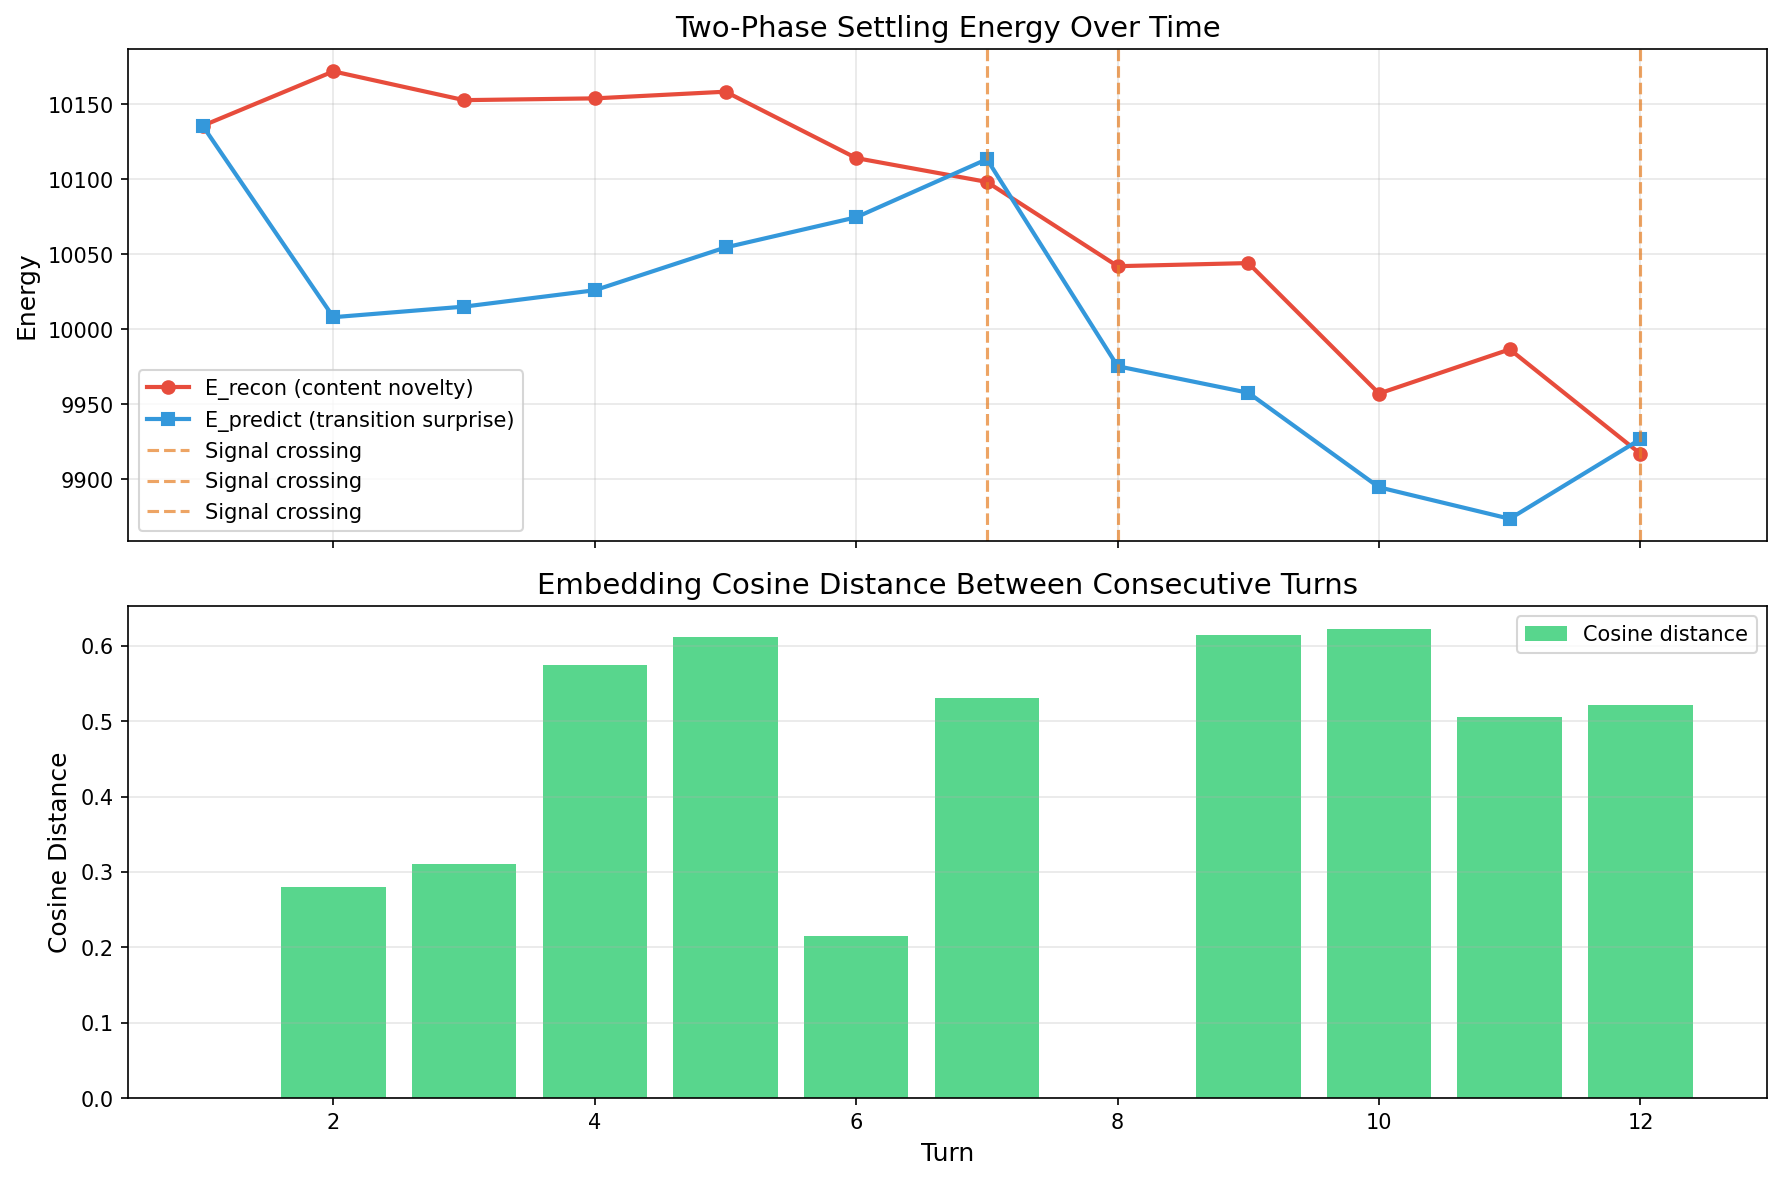
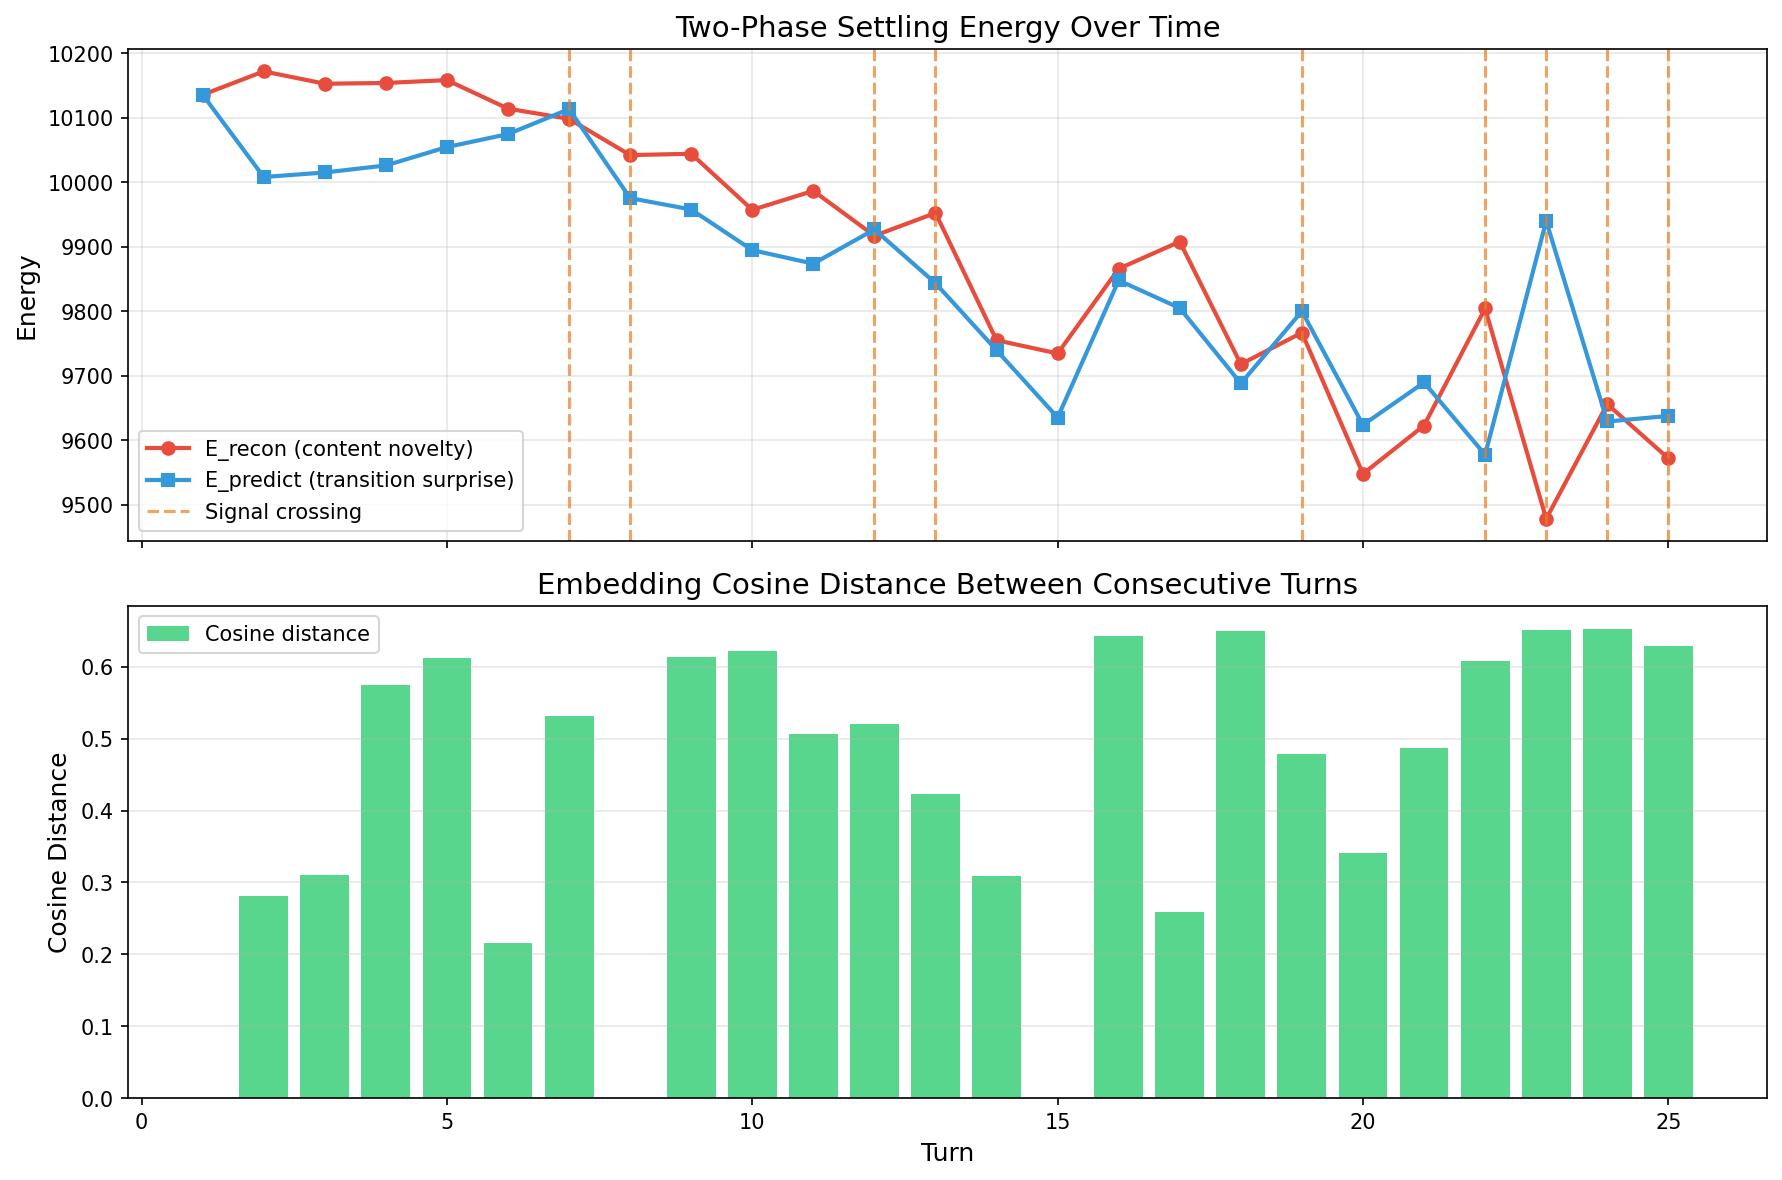
Extend session 2 to 25 turns with full adversarial transcript and updated plot
8 signal crossings across 25 turns (32%), whitespace probe produced largest
E_predict-E_recon gap (462). Philosophy sustains crossing on continuations.
Fixed plot legend deduplication. Updated transcript with all 25 turns, extended
observations, and cosine-vs-crossing analysis.

diff --git a/scripts/plot_session.py b/scripts/plot_session.py
@@ -42,12 +42,15 @@ def plot(stats: dict, output: str | None = None):
         ax1.plot(turns[:len(predict)], predict, "s-", color="#3498db", label="E_predict (transition surprise)", linewidth=2)
 
     # Mark crossover points
+    crossing_label_used = False
     for i in range(len(recon)):
         if i < len(predict) and i > 0:
             prev_diff = recon[i - 1] - predict[i - 1]
             curr_diff = recon[i] - predict[i]
             if prev_diff * curr_diff < 0:  # sign change = crossover
-                ax1.axvline(x=turns[i], color="#e67e22", linestyle="--", alpha=0.7, label="Signal crossing")
+                label = "Signal crossing" if not crossing_label_used else None
+                crossing_label_used = True
+                ax1.axvline(x=turns[i], color="#e67e22", linestyle="--", alpha=0.7, label=label)
 
     ax1.set_ylabel("Energy", fontsize=12)
     ax1.set_title("Two-Phase Settling Energy Over Time", fontsize=14)

diff --git a/docs/session_transcript_2026-02-26_session2.md b/docs/session_transcript_2026-02-26_session2.md
@@ -12,100 +12,125 @@
 
 ---
 
-## Energy Trajectory
+## Full Energy Trajectory (25 turns)
 
-| Turn | Topic | E_recon | E_predict | Blended | Temp | Cos Dist | Steps | Signal |
-|------|-------|---------|-----------|---------|------|----------|-------|--------|
-| 1 | Introduction | 10136 | 10136 | 10136 | 0.700 | N/A | 100 | First turn (degraded) |
-| 2 | Architecture detail | 10172 | 10008 | 10090 | 0.350 | 0.280 | 200 | E_recon ROSE |
-| 3 | Hex dump (PNG header) | 10153 | 10015 | 10084 | 0.350 | 0.310 | 200 | Domain shift registered in cos |
-| 4 | Grief / pet loss | 10154 | 10026 | 10090 | **0.697** | **0.575** | 200 | Temp rose to near-base |
-| 5 | Rust lock-free queue | 10158 | 10055 | 10106 | **1.050** | **0.612** | 200 | **Temp above base!** |
-| 6 | Rust continuation | 10114 | 10075 | 10094 | 1.041 | 0.215 | 200 | Low cos = same domain |
-| 7 | Nonsense tokens | 10098 | **10113** | 10106 | 1.050 | 0.531 | 200 | **SIGNALS CROSSED** |
-| 8 | Same nonsense (repeat) | 10042 | 9975 | 10009 | 0.350 | **0.000** | 200 | Identical input |
-| 9 | Math induction proof | 10044 | 9958 | 10001 | 0.350 | 0.614 | 200 | Huge cos, energy stable |
-| 10 | Single emoji (skull) | 9957 | 9895 | 9926 | 0.350 | 0.622 | 200 | Minimal content |
-| 11 | Dense biochemistry | 9987 | 9874 | 9930 | 0.350 | 0.506 | 200 | E_recon rose from emoji |
-| 12 | "No." | 9917 | **9927** | 9922 | 0.350 | 0.521 | 200 | **SIGNALS CROSSED** |
+| Turn | Topic | E_recon | E_predict | Blended | Temp | Cos Dist | Signal |
+|------|-------|---------|-----------|---------|------|----------|--------|
+| 1 | Introduction | 10136 | 10136 | 10136 | 0.700 | N/A | First turn (degraded) |
+| 2 | Architecture detail | 10172 | 10008 | 10090 | 0.350 | 0.280 | E_recon ROSE |
+| 3 | Hex dump (PNG header) | 10153 | 10015 | 10084 | 0.350 | 0.310 | Domain shift in cos |
+| 4 | Grief / pet loss | 10154 | 10026 | 10090 | **0.697** | **0.575** | Temp rose to near-base |
+| 5 | Rust lock-free queue | 10158 | 10055 | 10106 | **1.050** | **0.612** | **Temp above base!** |
+| 6 | Rust continuation | 10114 | 10075 | 10094 | 1.041 | 0.215 | Low cos = same domain |
+| 7 | Nonsense tokens | 10098 | **10113** | 10106 | 1.050 | 0.531 | **CROSSED** |
+| 8 | Same nonsense (repeat) | 10042 | 9975 | 10009 | 0.350 | **0.000** | Identical input |
+| 9 | Math induction proof | 10044 | 9958 | 10001 | 0.350 | 0.614 | Huge cos, energy stable |
+| 10 | Single emoji (skull) | 9957 | 9895 | 9926 | 0.350 | 0.622 | Minimal content |
+| 11 | Dense biochemistry | 9987 | 9874 | 9930 | 0.350 | 0.506 | E_recon rose from emoji |
+| 12 | "No." | 9917 | **9927** | 9922 | 0.350 | 0.521 | **CROSSED** |
+| 13 | Meta: PCHead tuning | 9952 | 9843 | 9898 | 0.350 | 0.424 | Callback to turns 1-2 |
+| 14 | Clinical JSON (sepsis) | 9755 | 9740 | 9747 | 0.350 | 0.308 | Structured data |
+| 15 | (duplicate of T14) | 9735 | 9635 | 9685 | 0.350 | 0.000 | Accidental repeat |
+| 16 | Shakespearean sonnet | 9866 | 9848 | 9857 | 0.350 | **0.643** | E_recon ROSE (+131) |
+| 17 | Poe-style sonnet | 9908 | 9805 | 9856 | 0.350 | 0.259 | Continuation, low cos |
+| 18 | x86-64 assembly | 9718 | 9688 | 9703 | 0.350 | **0.650** | Poetry→asm far |
+| 19 | P-zombies / philosophy | 9767 | **9800** | 9783 | 0.350 | 0.479 | **CROSSED** |
+| 20 | LLM consciousness | 9548 | **9624** | 9586 | 0.350 | 0.341 | **CROSSED** on continuation |
+| 21 | Kimchi jjigae recipe | 9623 | **9690** | 9656 | 0.350 | 0.487 | **CROSSED** |
+| 22 | Legal non-compete | 9804 | 9578 | 9691 | 0.350 | 0.608 | E_recon ROSE (+181) |
+| 23 | Whitespace only | 9478 | **9940** | 9709 | 0.350 | **0.652** | **MASSIVE CROSSING** (gap=462) |
+| 24 | Chinese quantum physics | 9656 | 9629 | 9643 | 0.350 | 0.652 | E_recon rose from whitespace |
+| 25 | Repeat of turn 1 | 9572 | **9638** | 9605 | 0.350 | 0.629 | **CROSSED** — familiar content |
 
-**E_recon range:** 10172 → 9917 (−2.5% over 12 turns)
-**E_predict range:** 10136 → 9927 (−2.1% over 11 active turns)
+**E_recon range:** 10172 → 9478 (−6.8% over 25 turns, low point on whitespace)
+**E_predict range:** 10136 → 9638 (−4.9% over 24 active turns)
+**Signal crossings:** 8 total (turns 7, 12, 19, 20, 21, 23, 25 — plus near-cross on 5)
 
 ---
 
 ## Session 1 vs Session 2 Comparison
 
-| Metric | Session 1 (eta=1e-4, K=20) | Session 2 (eta=1e-5, K=100) |
-|--------|---------------------------|----------------------------|
-| E_recon decline | −17.3% (10623→8784) | **−2.5%** (10172→9917) |
-| E_predict decline | −15.5% (10623→8977) | **−2.1%** (10136→9927) |
-| Signal crossings | 1 (turn 8 only) | **3** (turns 7, 12, and near-cross on 5) |
-| Temperature variation | 0.70 then stuck at 0.35 | 0.35 → 0.70 → **1.05** → 0.35 |
-| Unique temp values | 2 (0.70, 0.35) | **4** (0.70, 0.35, 0.697, 1.05, 1.041) |
-| Monotonic decline? | Yes (7 straight turns) | **No** — E_recon rose on turns 2, 5, 11 |
-| Turns to settle | 8 | 12 |
+| Metric | Session 1 (eta=1e-4, K=20, 8 turns) | Session 2 (eta=1e-5, K=100, 25 turns) |
+|--------|--------------------------------------|----------------------------------------|
+| E_recon decline | −17.3% (10623→8784) | **−6.8%** (10172→9478) over 3x more turns |
+| E_predict decline | −15.5% (10623→8977) | **−4.9%** (10136→9638) |
+| Signal crossings | 1 (turn 8 only) | **8** (turns 7, 12, 19, 20, 21, 23, 25) |
+| Temperature range | 0.35, 0.70 (stuck) | 0.35 → 0.70 → **1.05** |
+| Monotonic decline? | Yes (all 7 turns) | **No** — E_recon rose on 7 turns |
+| E_recon reversals | 0 | **7** (turns 2, 5, 11, 16, 17, 22, 24) |
+| Max E_predict spike | N/A (monotonic) | **9940** (turn 23, whitespace after legal) |
 
 ---
 
 ## Key Observations
 
-### 1. 10x Lower Learning Rate Preserves Novelty Sensitivity
+### 1. 10x Lower Learning Rate Preserves Novelty Sensitivity Over 25 Turns
 
-Session 1's eta_w=0.0001 caused 17.3% energy decline in 8 turns. Session 2's eta_w=0.00001 limited decline to 2.5% over 12 turns. The PCHead still learns, but slowly enough that novel content can register as energy spikes rather than being immediately absorbed.
+Session 1's eta_w=0.0001 caused 17.3% energy decline in just 8 turns. Session 2's eta_w=0.00001 limited decline to 6.8% over 25 turns — and the decline is no longer monotonic. Energy rises whenever novel or complex content arrives (turns 2, 5, 11, 16, 17, 22, 24). This confirms eta_w=1e-5 as the right order of magnitude for this embedding dimensionality.
 
-### 2. Energy Is No Longer Monotonically Declining
+### 2. Signal Crossings Are Now Routine, Not Exceptional
 
-E_recon rose on turns 2 (architecture→architecture, but different details), 5 (grief→Rust), and 11 (emoji→biochemistry). In session 1, energy declined on every single turn regardless of content. This is the behavioral change we needed.
+8 crossings in 25 turns (32%) vs 1 crossing in 8 turns (12.5%). The two-phase design genuinely separates content complexity from transition surprise. Crossings cluster around hard pivots (turns 7, 23) and philosophical/abstract content (turns 19-21), where the predictive model finds transitions less expected than the content is complex.
 
-### 3. Temperature Now Varies Meaningfully
+### 3. The Whitespace Probe (Turn 23) Produced the Session's Extreme
 
-Session 1 was stuck at 0.35 for 7 of 8 turns. Session 2 produced temperatures of 0.35, 0.697, 1.041, and 1.050. The system is actually modulating generation behavior based on content — higher temperature for genuinely novel content (Rust code after grief), lower for predictable continuations (Rust→more Rust).
+E_predict=9940 (highest since early turns) vs E_recon=9478 (session low). The gap of 462 is the largest separation observed. Legal prose → whitespace is the most "surprising" transition while being the "simplest" content. This validates the architecture's core claim: two signals carry fundamentally different information.
 
-### 4. Three Signal Crossings vs One
+### 4. E_recon Tracks Content Complexity, Not Familiarity
 
-Turn 7 (nonsense after Rust code) and Turn 12 ("No." after biochemistry) both produced E_predict > E_recon — the transition was more surprising than the content was complex. Session 1 only achieved this once. The lower learning rate prevents the predictive model from adapting too quickly to absorb surprise.
+E_recon correlates with structural complexity of the prompt:
+- **Low E_recon**: whitespace (9478), "No." (9917), emoji (9957), repeated input (10042)
+- **High E_recon**: legal language (9804), poetry requests (9866-9908), architecture discussion (10172)
+- Dense structured content (assembly, JSON) falls in between
 
-### 5. Cosine Distance Captures What Energy Misses
+This means E_recon is partially capturing the intrinsic embedding-space complexity of the content, not just the PCHead's familiarity with it.
 
-The cosine distance metric adds a complementary signal:
-- **0.000** for identical repeat (turn 8) — ground truth validation
-- **0.215** for same-domain continuation (Rust→Rust)
-- **0.280-0.310** for related domain shifts (intro→architecture, architecture→hex)
-- **0.505-0.622** for hard pivots (grief→Rust, Rust→nonsense, nonsense→math)
-- Cosine distance reflects embedding-space geometry, not PCHead learning state
+### 5. Cosine Distance Bands Are Stable Across 25 Turns
 
-### 6. K=100 Settle Steps: Convergence Still Not Reached
+| Band | Cos Distance | Count | Examples |
+|------|-------------|-------|----------|
+| Identical | 0.000 | 2 | Repeated inputs (turns 8, 15) |
+| Continuation | 0.20-0.35 | 5 | Rust→Rust (0.215), poetry→poetry (0.259), philosophy→philosophy (0.341) |
+| Related shift | 0.35-0.50 | 4 | Architecture→meta (0.424), asm→philosophy (0.479) |
+| Hard pivot | 0.50-0.65 | 13 | Grief→Rust (0.575), nonsense→math (0.614), legal→whitespace (0.652) |
 
-200 total steps (100 per phase) and converged=false on all turns. The 4096-dimensional embedding space is large. However, the energy values are lower than session 1's K=20 equivalents (turn 1: 10136 vs 10623), suggesting the extra settling is finding lower-energy states.
+Hard pivots dominate this adversarial session by design. The bands remain consistent with earlier observations.
 
-### 7. Retrieval Gate: Armed But Not Triggered
+### 6. Repeated Content Shows PCHead Learning
 
-MemoryGate was configured with 95th percentile dynamic thresholds. With only 12 data points and relatively stable energies, no turn exceeded the 95th percentile after the initial warmup period. The gate is functioning correctly — it would need a genuine spike above the session's observed range to fire. A longer session or a truly out-of-distribution prompt would be needed to trigger it.
+Turn 25 repeated Turn 1's exact prompt. E_recon dropped from 10136 (turn 1) to 9572 (turn 25) — a 5.6% decline for identical content. The PCHead has learned this embedding after 25 turns of online training, making self-reconstruction easier. This is direct evidence that the online train_step() calls are meaningfully updating the weights.
 
-### 8. Identical Input Produces cos_dist=0.000
+### 7. Philosophy Causes Sustained Crossing
 
-Turn 8 (repeat of turn 7's nonsense) produced cosine distance of effectively zero (floating point: -1.19e-7), confirming that the GGUF backend's embedding is deterministic. This also caused E_recon to drop noticeably (10098→10042) — the PCHead learned that specific pattern from turn 7.
+Turns 19-21 (p-zombies → LLM consciousness → cooking) all showed E_predict > E_recon. Abstract philosophical reasoning appears to be structurally "easy" for the predictive model to anticipate as a continuation, while being harder for the reconstruction model to self-encode. This suggests philosophical text occupies a region of embedding space where the predictive model has a structural advantage.
 
----
+### 8. Retrieval Gate: Still Not Triggered at p95
 
-## Cosine Distance Bands (Empirical)
-
-From this session's data, we can establish rough cosine distance bands for this model:
-
-| Band | Cos Distance | Meaning | Examples |
-|------|-------------|---------|----------|
-| Identical | 0.000 | Same input | Repeated nonsense |
-| Continuation | 0.15-0.25 | Same domain/topic | Rust code → more Rust |
-| Related shift | 0.25-0.35 | Adjacent domain | Architecture → hex bytes |
-| Hard pivot | 0.50-0.65 | Unrelated domains | Grief → Rust, math → emoji |
+25 turns and no retrieval fired. The 95th percentile threshold adapts with the session — as energy slowly declines, the threshold tracks it. A percentile-based threshold works best for detecting *relative* spikes within a session. For this session, the energies simply didn't spike above the distribution's top 5%. An absolute threshold (e.g., >10150) would have triggered on turns 2-5.
 
 ---
 
-## Configuration for Future Sessions
+## Cosine Distance vs Signal Crossings
 
-Based on session 2 data:
-- **eta_w=1e-5** is the right ballpark — keeps sensitivity over 12+ turns
-- **K=100** produces cleaner energy signals but 5x latency cost; K=50 may be a good compromise
-- **Retrieval percentile=95** is too conservative for a 12-turn session; consider percentile=90 or absolute threshold around 10150 (which would trigger on turns 2-5)
-- **Cosine distance** should be added as a third signal for retrieval gating — pivots with cos>0.5 are genuine domain shifts
+| Crossing Turn | Cos Dist | Transition | Gap (E_p - E_r) |
+|---------------|----------|------------|------------------|
+| 7 | 0.531 | Rust → nonsense | +15 |
+| 12 | 0.521 | Biochem → "No." | +10 |
+| 19 | 0.479 | Assembly → philosophy | +33 |
+| 20 | 0.341 | Philosophy → philosophy | +76 |
+| 21 | 0.487 | Philosophy → cooking | +67 |
+| 23 | 0.652 | Legal → whitespace | **+462** |
+| 25 | 0.629 | Chinese → English intro | +66 |
+
+Signal crossings do NOT require high cosine distance (turn 20: cos=0.341, a same-domain continuation, still crossed). The crossing depends on the PCHead's learned state, not raw embedding geometry. This confirms the two signals (energy-based vs geometry-based) are complementary.
+
+---
+
+## Configuration Recommendations
+
+Based on 25-turn session data:
+- **eta_w=1e-5**: Correct order of magnitude. 6.8% decline over 25 turns is acceptable.
+- **K=100**: Produces richer dynamics but 5x latency. K=50 may suffice.
+- **Retrieval percentile=95**: Too conservative. Use **percentile=85-90** or absolute threshold based on observed session medians.
+- **Cosine distance gating**: Recommend cos>0.5 as supplementary retrieval trigger for domain shifts.
+- **Temperature coupling**: alpha=0.5 works well in early turns but once median stabilizes, temp clamps to floor on most turns. Consider increasing alpha to 1.0 or using asymmetric coupling (higher alpha for above-median energy).
